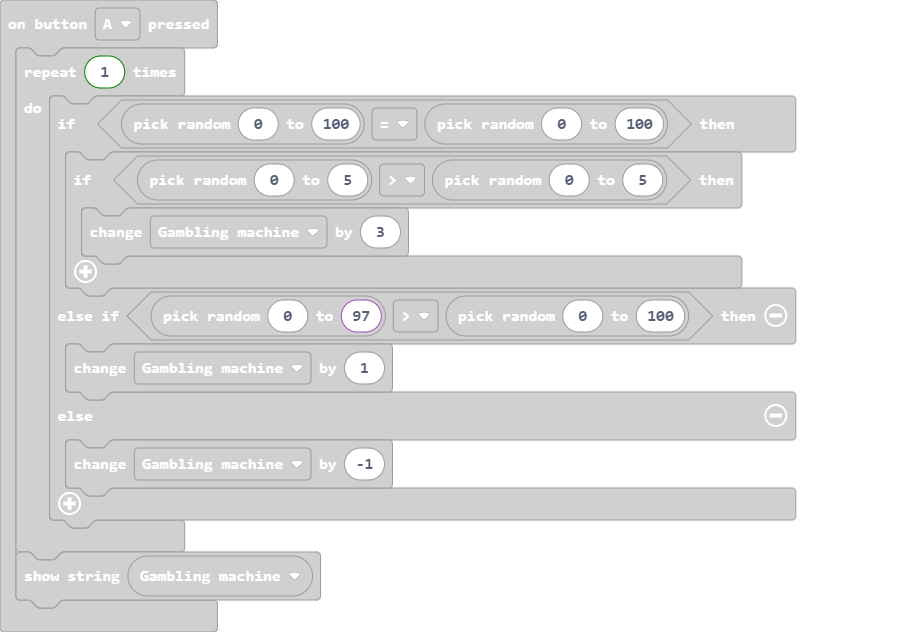
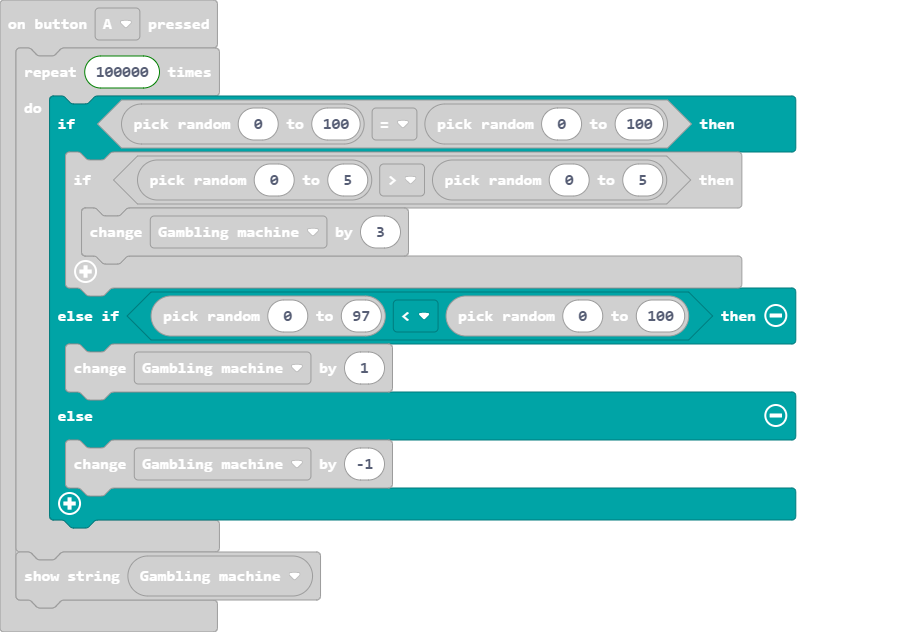
change name

Changed region(s): [[0.0311, 0.0601, 0.9022, 0.8718]]

diff --git a/main.ts b/main.ts
@@ -1,10 +1,10 @@
 input.onButtonPressed(Button.A, function () {
-    for (let index = 0; index < 1; index++) {
+    for (let index = 0; index < 100000; index++) {
         if (randint(0, 100) == randint(0, 100)) {
             if (randint(0, 5) > randint(0, 5)) {
                 Gambling_machine += 3
             }
-        } else if (randint(0, 97) > randint(0, 100)) {
+        } else if (randint(0, 97) < randint(0, 100)) {
             Gambling_machine += 1
         } else {
             Gambling_machine += -1
